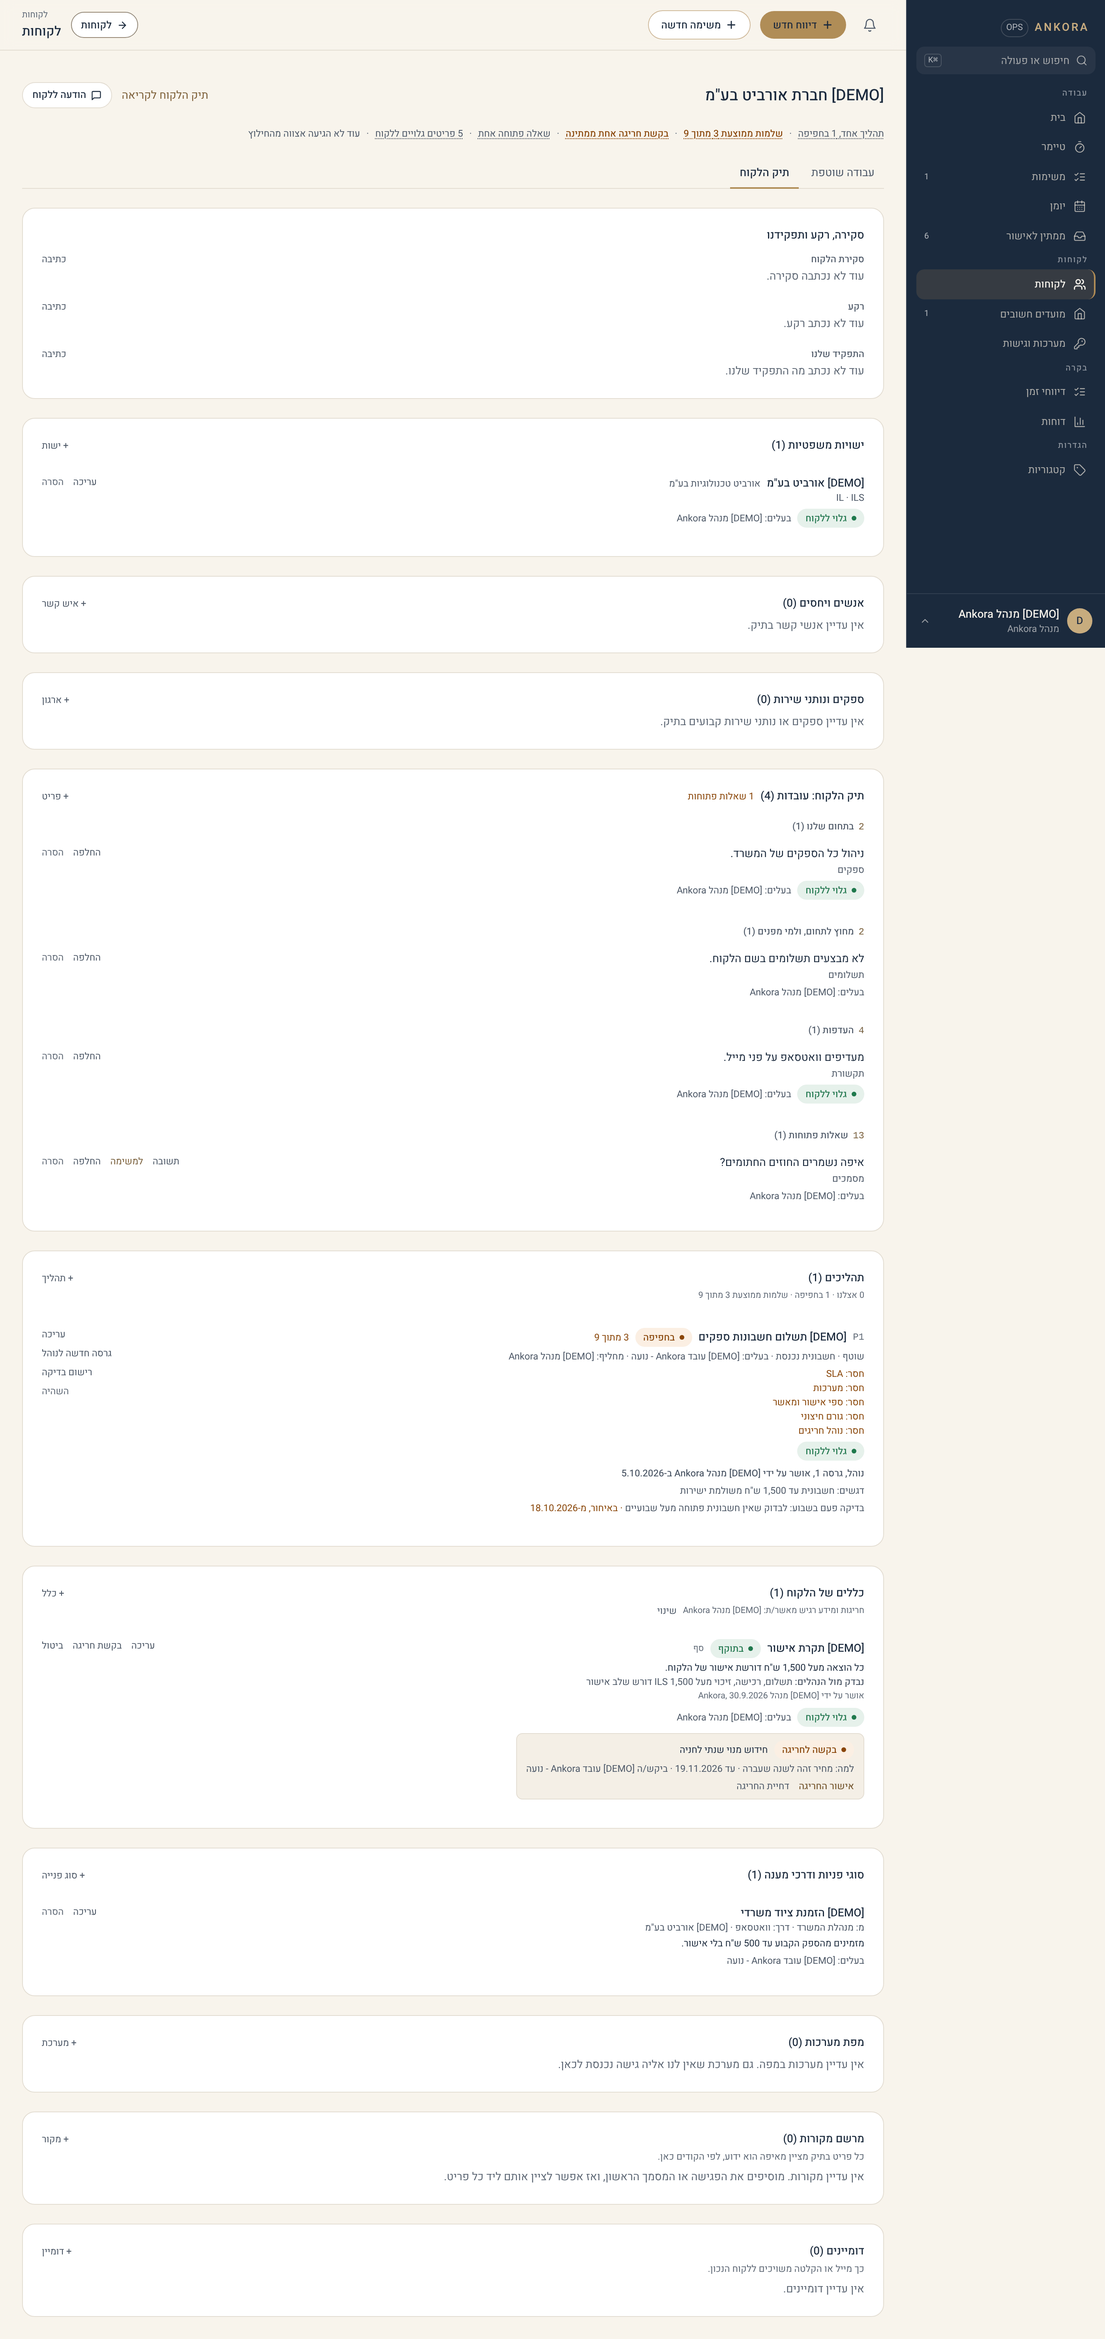
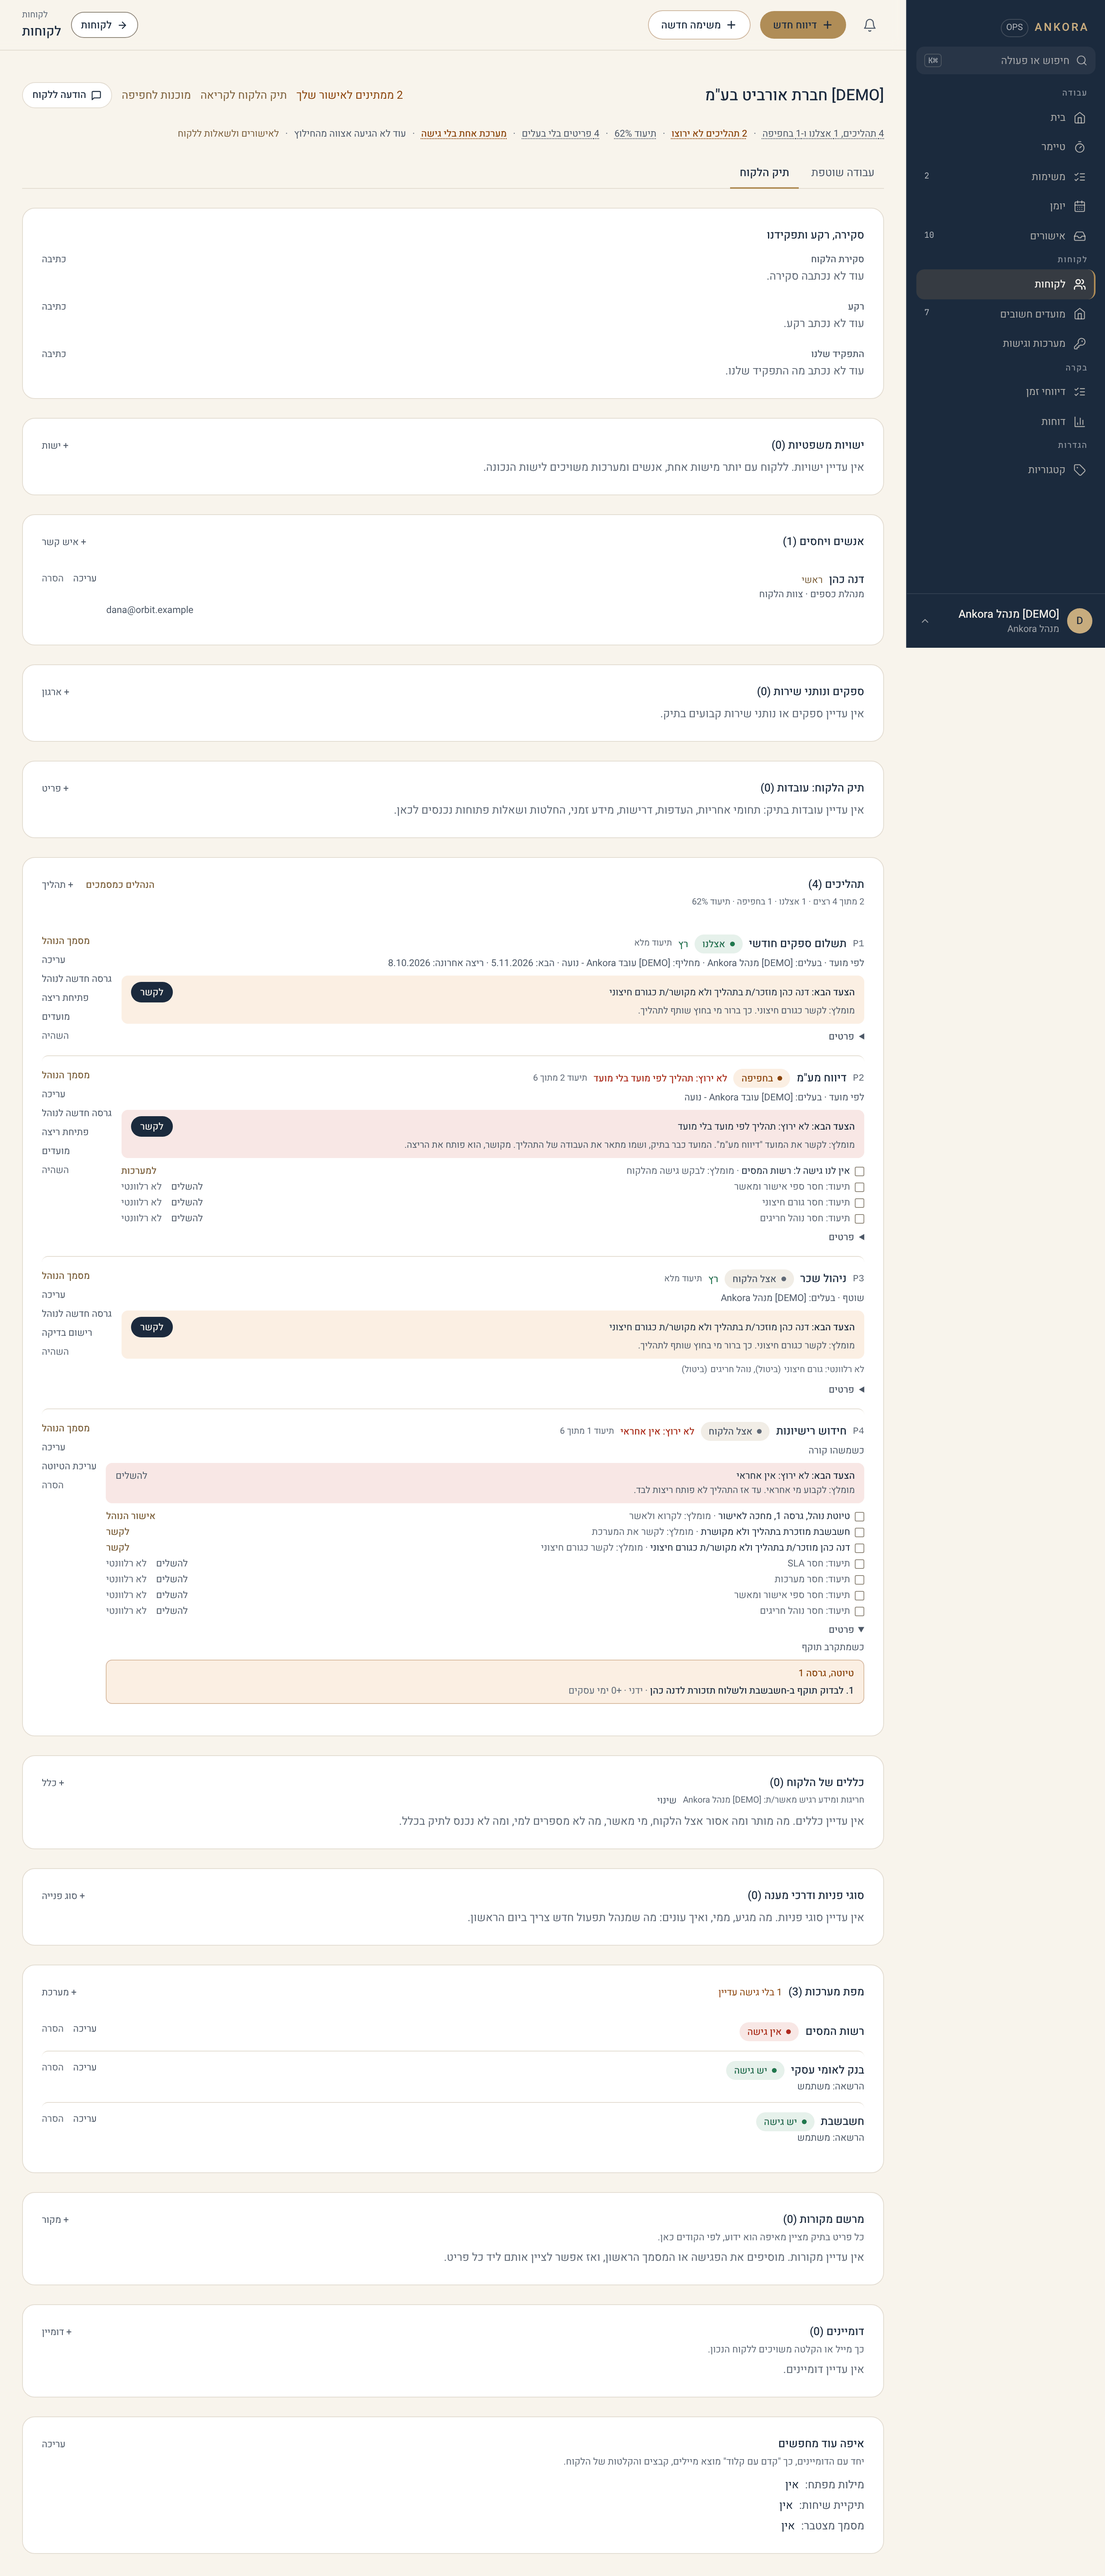
תיעוד: בדיקה שבועית 27.10 (#342)
* תיעוד: ERD, שדה notApplicableFields בתהליך

Claude-Session: https://claude.ai/code/session_015t38bAL1xzuxoBZrLcKeKL

* מדריך: צילומי מסך ליומן ולאישורים, וצילום מחדש של תהליכים ותיק הלקוח

Claude-Session: https://claude.ai/code/session_015t38bAL1xzuxoBZrLcKeKL

---------

diff --git a/app/(product)/app/(authenticated)/guide/content.ts b/app/(product)/app/(authenticated)/guide/content.ts
@@ -284,6 +284,7 @@ export const GUIDE_GROUPS: GuideGroup[] = [
           "מועדים חשובים לא נגררים. את התאריך של מועד משנים בדף המועד.",
           "בטלפון היומן מוצג כרשימת ימים ואין בו גרירה. משנים תאריך יעד בדף המשימה.",
         ],
+        images: [{ src: "/guide/calendar.png", alt: "מסך היומן בתצוגת חודש עם מועדים", caption: "מסך \"יומן\" בתצוגת חודש" }],
       },
       {
         id: "important-dates",
@@ -538,6 +539,7 @@ export const GUIDE_GROUPS: GuideGroup[] = [
           "כלל שעוד לא אומת הוא לא החלטה: הוא מופיע כשאלה בכרטיס של הלקוח ב\"שאלות ללקוח\", ומגיע ל\"כללים\" אחרי שאומת. בתיק הפנימי של אנקורה אין את מי לשאול: שם \"אישור הכלל\" מסמן אותו כמאומת ומאשר אותו בלחיצה אחת, ונרשם ביומן.",
         ],
         notes: ["הכתובת הישנה של \"ממתין לאישור\" עדיין עובדת, ומובילה ללשונית \"ידע מהחילוץ\" עם אותו סינון."],
+        images: [{ src: "/guide/approvals.png", alt: "מסך האישורים עם לשוניות והחלטות להיום", caption: "מסך \"אישורים\": כל שורה היא החלטה, עם המומלץ והכפתור שעושה אותו" }],
       },
       {
         id: "knowledge-review",

diff --git a/docs/erd.md b/docs/erd.md
@@ -1122,6 +1122,7 @@ erDiagram
         string approvalPolicyIds "(list)"
         string approvalText "nullable"
         string exceptionPlaybook "nullable"
+        string notApplicableFields "(list), documentation fields marked not relevant: sla, systems, approvals, external, exceptions"
         json requiredSystemPermissions
         string approverUserId "nullable"
         string executorUserId "nullable"
